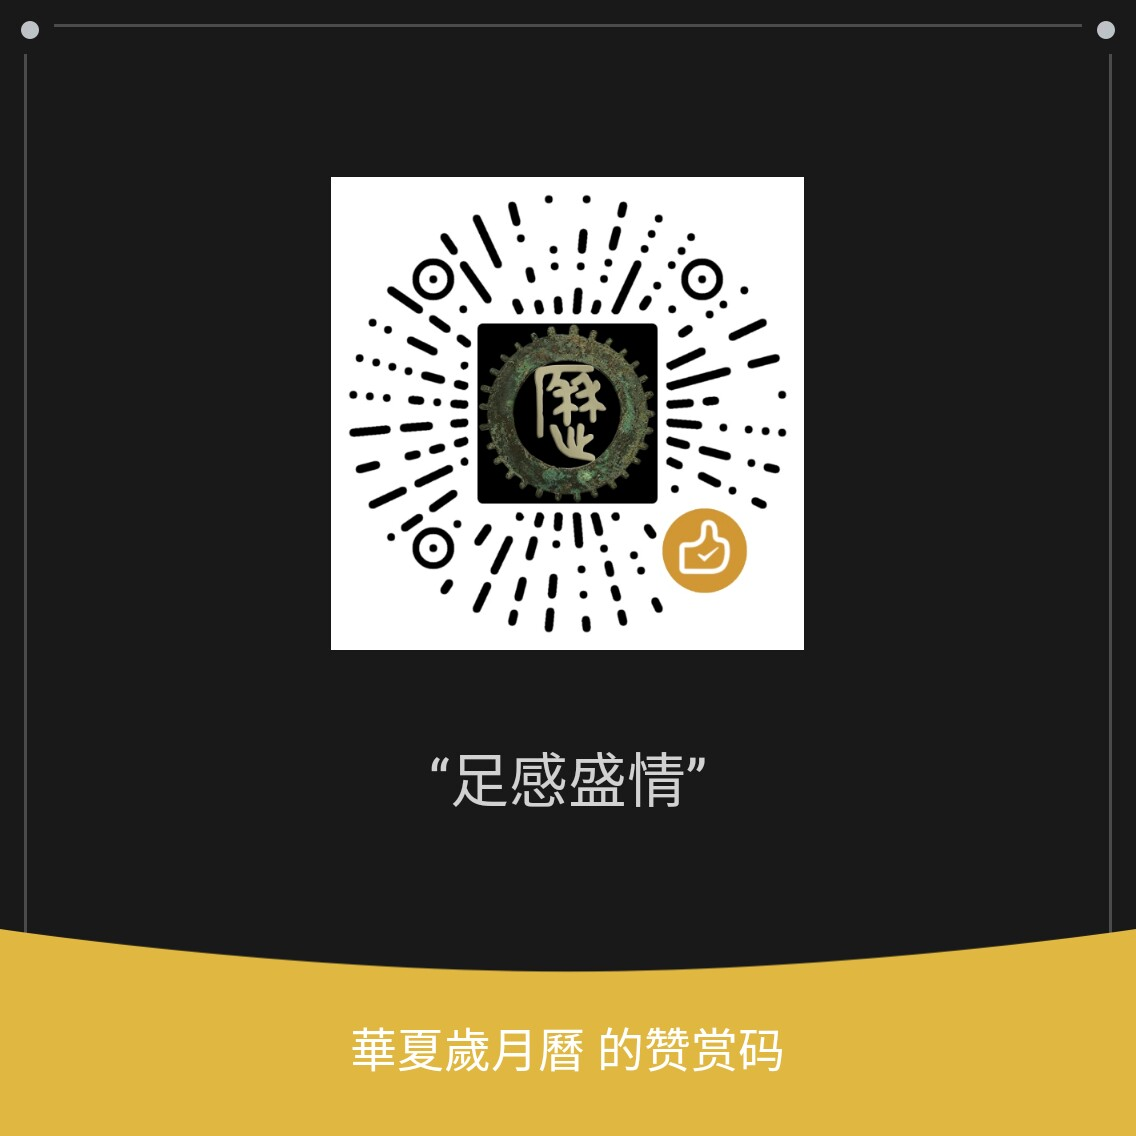
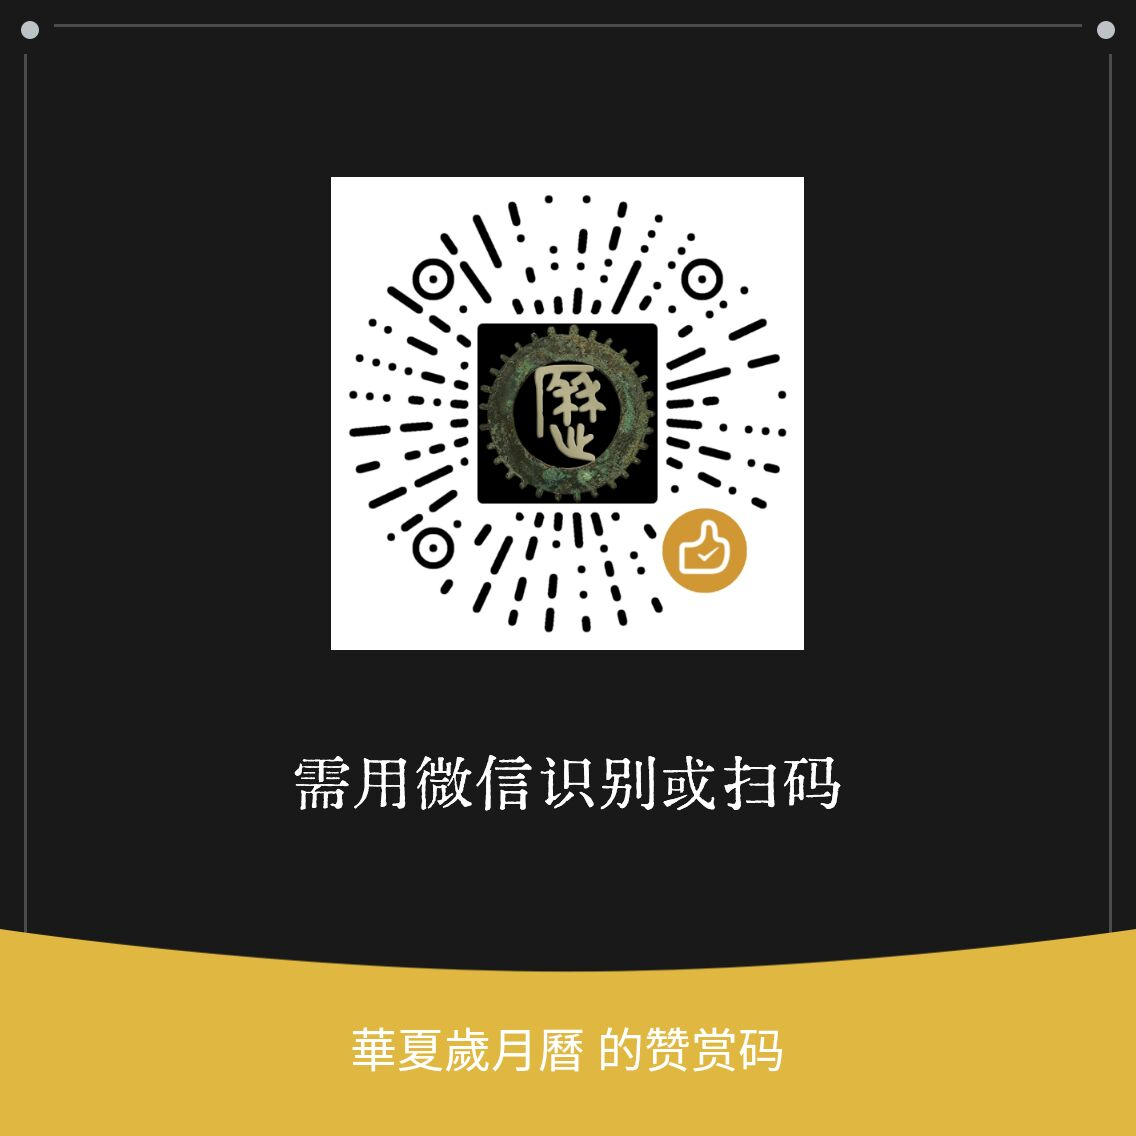
v1.47230515，版本 v1 完结，项目告一段落。

Changed region(s): [[0.2465, 0.647, 0.7394, 0.7086]]

diff --git a/pages/GuanYu.html b/pages/GuanYu.html
@@ -36,8 +36,8 @@
 <div class="sign">华夏&thinsp;4723&thinsp;岁&thinsp;仲夏&thinsp;15&thinsp;日&thinsp;周五、花&thinsp;(32400)&thinsp;甲子、端阳，<br/>版本 v1 完结。</div>
 
 <div style="text-align:center;margin-top:30px;">
-  <button onclick="var i=this.nextElementSibling;i.style.display=i.style.display==='none'?'block':'none';this.textContent=this.textContent==='赞 赏'?'👍 精神鼓励':'赞 赏';">赞 赏</button>
   <div style="display:none;margin-top:16px;">
     <img src="/pages/IMG/Zan.jpg" alt="赞赏" style="max-width:100%;border-radius:8px;">
   </div>
+  <button onclick="var i=this.previousElementSibling;i.style.display=i.style.display==='none'?'block':'none';this.textContent=this.textContent==='赞 赏'?'👍 精神鼓励':'赞 赏';this.scrollIntoView({behavior:'smooth',block:'nearest'});">赞 赏</button>
 </div>

diff --git a/sw.js b/sw.js
@@ -1,4 +1,4 @@
-const APP_VERSION = '1.47230515.3';
+const APP_VERSION = '1.47230515.4';
 const CACHE_NAME = 'SuiYueLi_v' + APP_VERSION;
 
 const CACHE_FILES = [
